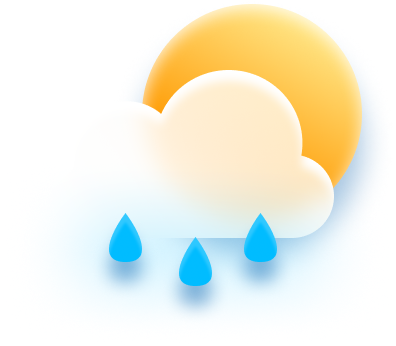
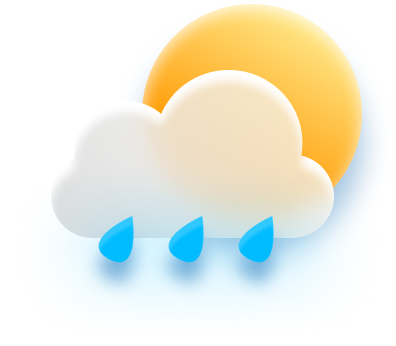
changed assets

Changed region(s): [[0.1212, 0.4046, 0.3636, 0.8092], [0.3939, 0.6069, 0.5455, 0.896], [0.5758, 0.6069, 0.697, 0.7514]]

diff --git a/src/Components/WeatherApp/WeatherApp.jsx b/src/Components/WeatherApp/WeatherApp.jsx
@@ -1,6 +1,6 @@
 // asset and styling imports
 import React, { useState, useEffect } from 'react';
-import sunny_icon from '../Assets/forecast_icons/sunny.png';
+import sunny_icon from '../Assets/forecast_icons/clear.png';
 import cloudy_icon from '../Assets/forecast_icons/cloudy.png';
 import partly_cloudy_icon from '../Assets/forecast_icons/partly_cloudy.png';
 import rain_icon from '../Assets/forecast_icons/rain.png';
@@ -8,7 +8,7 @@ import shower_rain_icon from '../Assets/forecast_icons/shower_rain.png';
 import thunderstorm_icon from '../Assets/forecast_icons/thunderstorm.png';
 import snow_icon from '../Assets/forecast_icons/snow.png';
 
-import main_sunny from '../Assets/main_icons/main_sunny.png';
+import main_sunny from '../Assets/main_icons/main_clear.png';
 import main_cloudy from '../Assets/main_icons/main_cloudy.png';
 import main_partly_cloudy from '../Assets/main_icons/main_partly_cloudy.png';
 import main_rain from '../Assets/main_icons/main_rain.png';
@@ -86,9 +86,9 @@ useEffect(() => {
           break;
         case "09d":
         case "09n":
-          setCurrentWeather("Shower Rain");
+          setCurrentWeather("Drizzle");
           setWicon(main_shower_rain);
-          setPrecipitation(data.rain['1h'] + 'mm');
+          setPrecipitation('<0.5mm');
           break;
         case "10d":
         case "10n":
